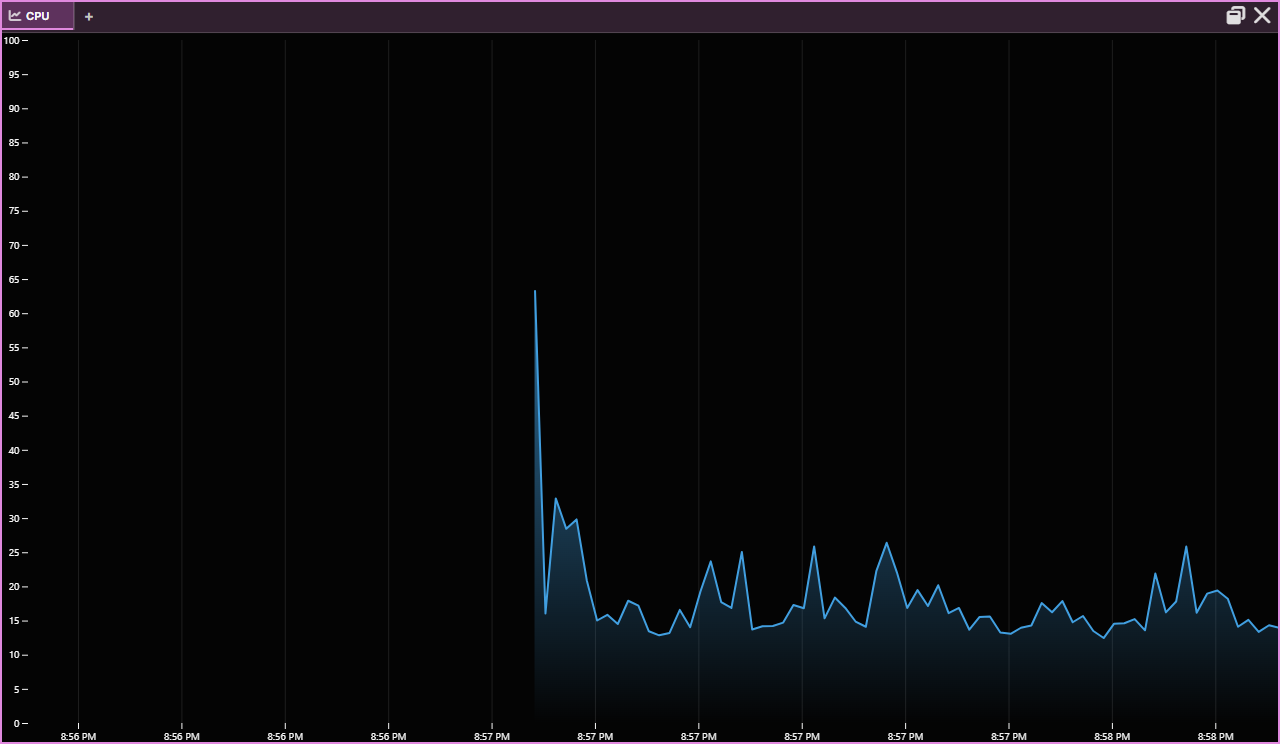
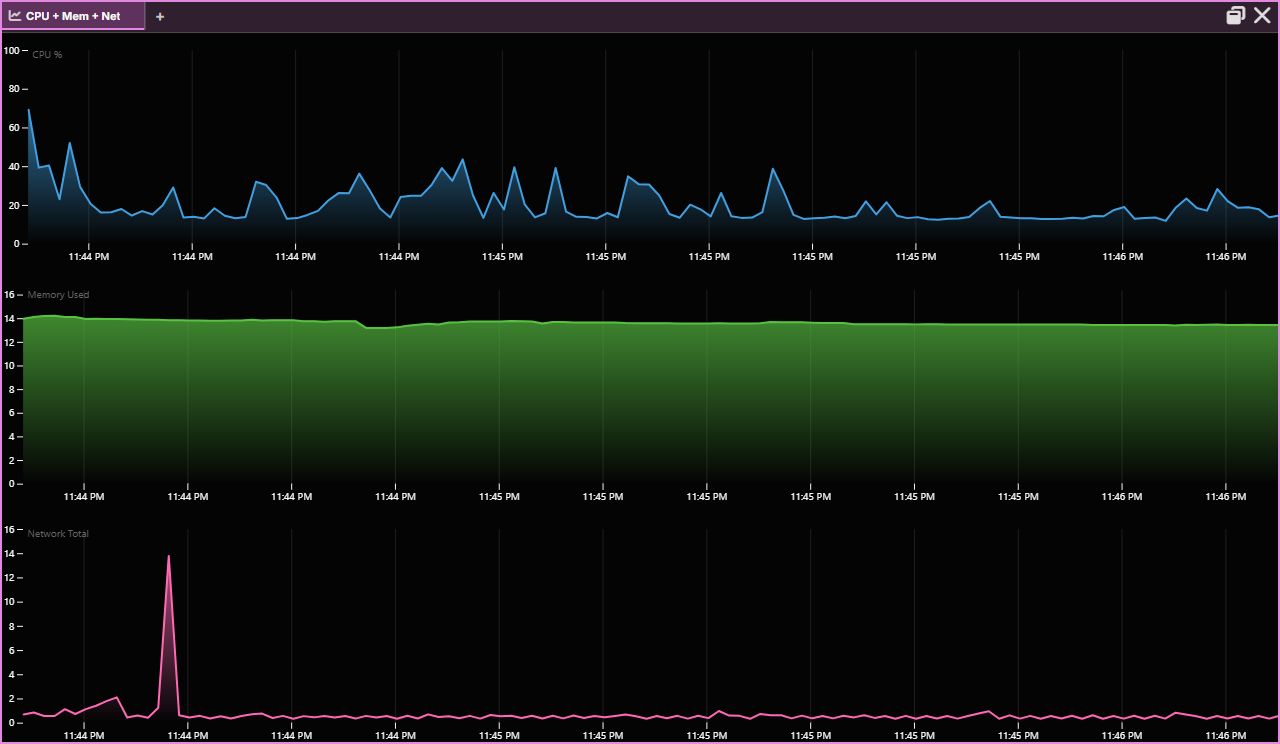
docs: gallery uses the small screenshots; Sysinfo shows CPU, memory and network
Agent: AgentA@Area54

diff --git a/src/content/docs/widget-gallery.md b/src/content/docs/widget-gallery.md
@@ -7,88 +7,88 @@ description: "What each AgentMux widget looks like when it first opens."
 AgentMux is **alpha software** and under heavy active development. Many features described in these docs may be incomplete, unstable, or not yet implemented. Expect breaking changes between releases. We welcome bug reports and feedback on [GitHub Issues](https://github.com/agentmuxai/agentmux/issues) or [Discord](https://discord.com/invite/96erama9Ar).
 :::
 
-Each widget as it looks the first time it opens in a new install: a pane of its own in a 1280×800 window, with no agents, accounts, history or content yet. They show what each widget is and where things are; widgets in daily use are fuller. For what each one does, see [Pane Types](/pane-types/).
+Each widget as it looks the first time it opens in a new install: a pane of its own in an 800×600 window, with no agents, accounts, history or content yet. They show what each widget is and where things are; widgets in daily use are fuller. For what each one does, see [Pane Types](/pane-types/).
 
 ## Agent
 
 Start and resume agents. **My Agents** lists yours; **New Agent** offers the harnesses you can start one with (Claude Code, Codex, Gemini and others), installing any that are missing.
 
-![The Agent widget when it first opens](../../assets/screenshots/widgets/widget-agent-medium.png)
+![The Agent widget when it first opens](../../assets/screenshots/widgets/widget-agent-small.png)
 
 ## Swarm
 
 A live tree of your agent panes with their subagents, todos and background commands. Empty until an agent is running. See [Swarm](/subagent-watcher/).
 
-![The Swarm widget when it first opens](../../assets/screenshots/widgets/widget-swarm-medium.png)
+![The Swarm widget when it first opens](../../assets/screenshots/widgets/widget-swarm-small.png)
 
 ## Hangar
 
 A file browser with places, drives, sorting, previews and drag and drop. Here it shows a small demo project.
 
-![The Hangar widget when it first opens](../../assets/screenshots/widgets/widget-files-medium.png)
+![The Hangar widget when it first opens](../../assets/screenshots/widgets/widget-files-small.png)
 
 ## Terminal
 
 A full terminal with a real shell. The chip beside the tab shows where it runs; switch it to an SSH host from there.
 
-![The Terminal widget when it first opens](../../assets/screenshots/widgets/widget-terminal-medium.png)
+![The Terminal widget when it first opens](../../assets/screenshots/widgets/widget-terminal-small.png)
 
 ## Editor
 
 A code editor with syntax highlighting, document tabs and language-server diagnostics.
 
-![The Editor widget when it first opens](../../assets/screenshots/widgets/widget-editor-medium.png)
+![The Editor widget when it first opens](../../assets/screenshots/widgets/widget-editor-small.png)
 
 ## Memory
 
 Global and Personal Memory, Skills and Bundles. A new install has only AgentMux's own system entries. See [Memory](/memory/).
 
-![The Memory widget when it first opens](../../assets/screenshots/widgets/widget-memory-medium.png)
+![The Memory widget when it first opens](../../assets/screenshots/widgets/widget-memory-small.png)
 
 ## Connectors
 
 Accounts (sign-ins to providers and services) and MCP servers. Pick a provider to add an account. See [Connectors](/connectors/).
 
-![The Connectors widget when it first opens](../../assets/screenshots/widgets/widget-connectors-medium.png)
+![The Connectors widget when it first opens](../../assets/screenshots/widgets/widget-connectors-small.png)
 
 ## Remotes
 
 The SSH hosts AgentMux knows: the hosts in `~/.ssh/config` and any you've connected to.
 
-![The Remotes widget when it first opens](../../assets/screenshots/widgets/widget-remotes-medium.png)
+![The Remotes widget when it first opens](../../assets/screenshots/widgets/widget-remotes-small.png)
 
 ## Drone
 
 A visual automation builder: drag Variables, Agent, API, Condition and Response blocks onto the canvas and wire them together.
 
-![The Drone widget when it first opens](../../assets/screenshots/widgets/widget-drone-medium.png)
+![The Drone widget when it first opens](../../assets/screenshots/widgets/widget-drone-small.png)
 
 ## Warden
 
 Monitor and control agents on this host, on your LAN and over the internet, with an audit log. See [Warden](/warden/).
 
-![The Warden widget when it first opens](../../assets/screenshots/widgets/widget-warden-medium.png)
+![The Warden widget when it first opens](../../assets/screenshots/widgets/widget-warden-small.png)
 
 ## Sysinfo
 
-Live graphs of this computer's CPU and memory use. See [Sysinfo](/system-metrics/).
+Live graphs of this computer's CPU, memory and network use; it can also show disk I/O and every CPU core. See [Sysinfo](/system-metrics/).
 
-![The Sysinfo widget when it first opens](../../assets/screenshots/widgets/widget-sysinfo-medium.png)
+![The Sysinfo widget when it first opens](../../assets/screenshots/widgets/widget-sysinfo-small.png)
 
 ## Media
 
 An image, video and audio viewer. Point it at a folder an agent writes into and it updates as new files arrive.
 
-![The Media widget when it first opens](../../assets/screenshots/widgets/widget-media-medium.png)
+![The Media widget when it first opens](../../assets/screenshots/widgets/widget-media-small.png)
 
 ## Help
 
 Built-in help: the header icons and every keyboard shortcut.
 
-![The Help widget when it first opens](../../assets/screenshots/widgets/widget-help-medium.png)
+![The Help widget when it first opens](../../assets/screenshots/widgets/widget-help-small.png)
 
 ## Settings
 
 Every setting, by section, with search. See [Settings](/settings/).
 
-![The Settings widget when it first opens](../../assets/screenshots/widgets/widget-settings-medium.png)
+![The Settings widget when it first opens](../../assets/screenshots/widgets/widget-settings-small.png)
